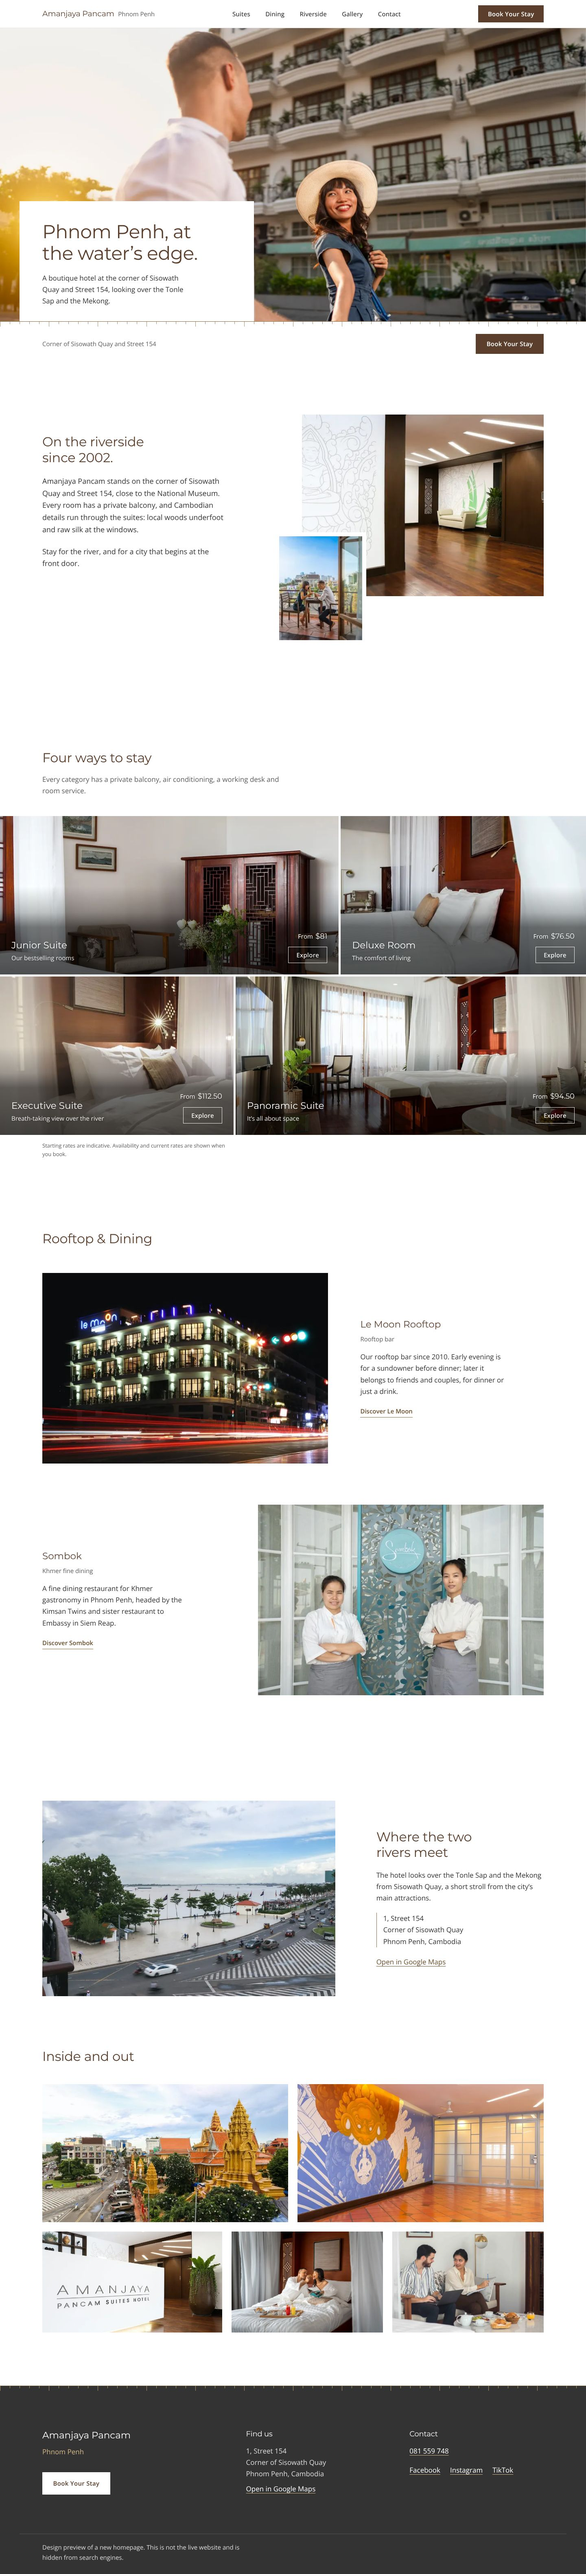
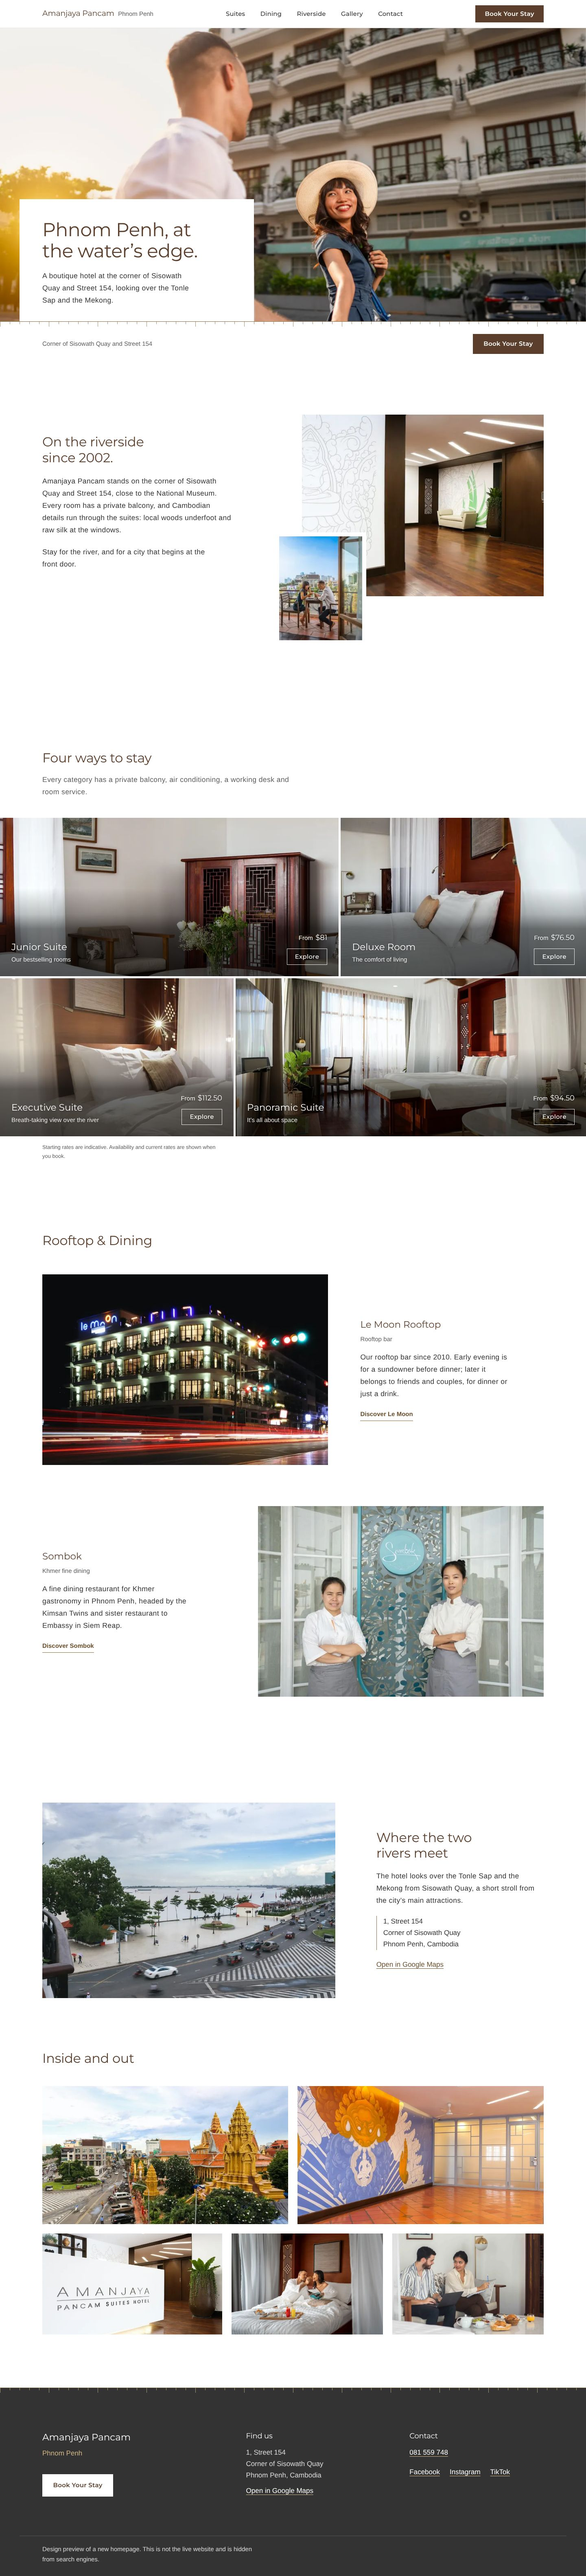
Body copy: Helvetica system stack, 1.1rem, line height 1.7, 0.4px tracking
Main paragraphs follow the original site's Elementor settings. No Helvetica
files are bundled. Open Sans is removed; Montserrat now also sets the nav and
buttons. Justified only where the sections stack into a wide column (40rem to
56rem); narrower columns and phones are left-aligned because justified gaps
measured two to five times normal there. Header nav tightened so the
wordmark stays on one line from 896px. Documented in docs/TYPOGRAPHY.md.

Claude-Session: https://claude.ai/code/session_01Ltb6LhfXKYs7J7ZKfoUyej

diff --git a/src/styles/global.css b/src/styles/global.css
@@ -14,9 +14,10 @@
   --line: #e6e6e6; /* neutral hairlines (header, menu) */
   --grey-fill: #f2f2f2; /* only visible while a photograph is loading */
 
-  /* Typography revision: Montserrat (headings) and Open Sans (text), the two families the original site also loaded. */
+  /* Montserrat (self-hosted) for headings and interface; the original site's Helvetica for text. Helvetica is a
+     system stack: no font files are bundled, so each device uses its own Helvetica Neue, Helvetica or Arial. */
   --font-heading: 'Montserrat Variable', 'Segoe UI', system-ui, -apple-system, sans-serif;
-  --font-body: 'Open Sans Variable', 'Segoe UI', system-ui, -apple-system, sans-serif;
+  --font-text: 'Helvetica Neue', Helvetica, Arial, sans-serif;
 
   /* Fluid between 360px and 1280px wide, then fixed.
      Body 16 to 17px. Headings are quiet: H1 28 to 46px, H2 24 to 32px, H3 19 to 23px. */
@@ -49,7 +50,7 @@ body {
   margin: 0;
   background: var(--white);
   color: var(--charcoal);
-  font-family: var(--font-body);
+  font-family: var(--font-text);
   font-size: var(--step-0);
   font-weight: 400;
   line-height: 1.65;
@@ -109,6 +110,26 @@ h3 {
 p {
   max-width: 62ch;
   text-wrap: pretty;
+}
+
+/* Main body paragraphs, as set on the original site (Elementor): Helvetica 400, 1.1em, line height 1.7, letter
+   spacing 0.4px, justified. Justification needs a long line to look even: in a column under about 550px
+   (phones, and the side-by-side columns from 56rem up) word gaps stretch to two to five times normal, so those
+   are left-aligned. It is justified only where the sections stack into a wide single column (40rem to 56rem).
+   To justify everywhere, remove the max-width below; see docs/TYPOGRAPHY.md. */
+.copy {
+  font-family: var(--font-text);
+  font-size: 1.1rem;
+  font-weight: 400;
+  line-height: 1.7;
+  letter-spacing: 0.4px;
+  text-align: left;
+}
+
+@media (min-width: 40rem) and (max-width: 55.99rem) {
+  .copy {
+    text-align: justify;
+  }
 }
 
 a {
@@ -178,7 +199,7 @@ a:hover {
   background: var(--teak);
   color: var(--white);
   border: 1px solid var(--teak);
-  font-family: var(--font-body);
+  font-family: var(--font-heading);
   font-size: var(--step--1);
   font-weight: 600;
   letter-spacing: 0.02em;

diff --git a/docs/TYPOGRAPHY.md b/docs/TYPOGRAPHY.md
@@ -1,6 +1,6 @@
 # Typography
 
-> **Current direction (typography experiment 2): Montserrat Regular headings + Open Sans Regular text.** Section 5 describes it. Sections 1 to 4 record the earlier Newsreader / Hanken Grotesk direction and the research on the original site, which still stands. The Newsreader version is preserved in git at commit `15a7fa7`.
+> **Current direction (typography experiment 3): Montserrat Regular headings and interface + Helvetica system stack for body paragraphs (section 6).** Experiment 2 was Montserrat + Open Sans. Section 5 describes it. Sections 1 to 4 record the earlier Newsreader / Hanken Grotesk direction and the research on the original site, which still stands. The Newsreader version is preserved in git at commit `15a7fa7`.
 
 ## 1. Heading scale (earlier Newsreader pass, superseded by section 5)
 
@@ -113,3 +113,14 @@ Compared with the Newsreader version, the desktop H1 drops from 58.8px to 46px, 
 - Compared with the Newsreader direction, this is more neutral and closer to a typical hotel template. It gains familiarity with the original site and loses the editorial character. Whether that trade is right is the point of this experiment.
 
 Screenshots: `docs/screenshots/` (desktop and mobile, refreshed), and `docs/screenshots/typography/newsreader-vs-montserrat-desktop.jpg` and `-mobile.jpg` compare the two directions directly.
+
+## 6. Typography experiment 3: Helvetica body copy
+
+The hotel verified the original site's body text in Elementor: Helvetica, 1.1em (17.6px at a 16px parent), weight 400, line height 1.7, letter spacing 0.4px, justified. The main body paragraphs now use exactly that (`.copy` in `src/styles/global.css`).
+
+- **Font:** `'Helvetica Neue', Helvetica, Arial, sans-serif`. No Helvetica files are downloaded or bundled, so every device shows its own: Helvetica Neue on Apple devices, Arial on Windows, the system sans on Android and Linux. Montserrat stays for headings and for the interface (nav, buttons). Open Sans is removed, which also saves a font download.
+- **Which paragraphs:** the hero intro, the Welcome text, the Suites intro, the two Rooftop & Dining descriptions and the Riverside text. Small labels, prices, notes and the footer stay at the body default, in the same Helvetica stack.
+- **Justification:** the original is justified, but justified text needs a long line. Measured as the widest word gap against a normal space, in the 310 to 470px side-by-side columns (56rem and up) lines stretched to 2 to 5 times normal ("A   fine   dining   restaurant   for   Khmer"), and phone columns (350px) are narrower still. So those are left-aligned. Justification is on where the sections stack into one wide column, 40rem to 56rem (about 640 to 895px), where the worst gap is about 1.3 to 2 times normal. The Rooftop & Dining descriptions stay left-aligned at every width because their 38ch column is narrow.
+- **To justify everywhere:** in `global.css`, remove `and (max-width: 55.99rem)` and the `min-width` condition from the `.copy` media query, and delete `text-align: left` from `.venue__desc` in `Dining.astro`. The side-by-side columns would then show the wide gaps described above; the cure is a wider column (a layout change) or hyphenation (`hyphens: auto` helps in most browsers but could not be tested here).
+- **Header:** Montserrat is wider than Open Sans, so the nav needed a slightly tighter gap and a non-wrapping wordmark to stay on one line from 896px up.
+- **Screenshots:** `docs/screenshots/typography/body-copy-*.jpg`. This environment has no Helvetica, so it renders the stack with Liberation Sans (metric-compatible with Arial and close to Helvetica); on real devices the letterforms will differ slightly and the line breaks may shift by a word.

diff --git a/docs/DESIGN-RATIONALE.md b/docs/DESIGN-RATIONALE.md
@@ -12,8 +12,8 @@ The hero text sits on a solid white panel that rises from the page into the phot
 
 Typography experiment 2 (the Newsreader / Hanken Grotesk direction is in git at `15a7fa7`):
 
-- Headings: Montserrat Regular. Text and interface: Open Sans Regular. Both are open source (SIL OFL), self-hosted, and both were loaded by the original site.
-- Fluid scale from `--step--1` to `--step-4` between 360 and 1280px wide. Body 16 to 17px; H3 19 to 23px, H2 24 to 32px, H1 28 to 46px; lines held to about 62 characters, line height 1.65 for text.
+- Headings and interface (nav, buttons): Montserrat Regular, open source (SIL OFL) and self-hosted. Body paragraphs: the original site's Helvetica, as a system stack (`Helvetica Neue`, Helvetica, Arial, sans-serif) with no font files bundled. Open Sans was dropped (typography experiment 3, see `docs/TYPOGRAPHY.md` section 6).
+- Fluid scale from `--step--1` to `--step-4` between 360 and 1280px wide. Main paragraphs 17.6px (1.1rem), line height 1.7, letter spacing 0.4px; H3 19 to 23px, H2 24 to 32px, H1 28 to 46px; lines held to about 62 characters, line height 1.65 for text.
 - Quiet by design: regular weights only, sentence case, no oversized display type. Details and the history are in `docs/TYPOGRAPHY.md`.
 - Neither font covers Khmer; Noto Sans Khmer is the planned partner later.
 

diff --git a/README.md b/README.md
@@ -36,7 +36,7 @@ The hotel's own photographs are committed in `src/assets/photos/` (never hotlink
 | Hotel facts, booking link, contact, nav | `src/config/site.ts` |
 | Homepage copy and photo choices | `src/content/home.ts` |
 | Room starting prices (edit here only) | `src/data/pricing.ts` |
-| Colours (white, charcoal, teak, bronze), type scale (Montserrat + Open Sans), waterline motif | `src/styles/global.css` |
+| Colours (white, charcoal, teak, bronze), type scale (Montserrat + Helvetica system stack), waterline motif | `src/styles/global.css` |
 | Page sections | `src/components/` |
 | Sources, placeholders, questions for the hotel | `docs/CONTENT-SOURCES.md` |
 | Design rationale | `docs/DESIGN-RATIONALE.md` |
